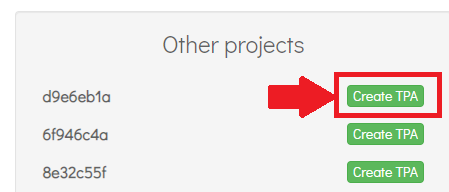
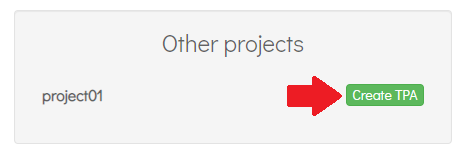
feat: deployment guide configuration

diff --git a/content/quickstart/auditing-agile.md b/content/quickstart/auditing-agile.md
@@ -40,12 +40,17 @@ curl https://github.com/governify/governify-project-bluejay-infrastructure/archi
      cd /governify-project-bluejay-infrastructure-1.12.2
 ``` 
 
-4. Open a terminal in the repository folder and execute setup.sh with the following parameters:
+4. (Optional) Add the default API keys. This will be used in case the projects API keys for the different tools aren't provided. Pivotal and GitHub keys are needed in the `Quick tour` section.
+```
+  nano configurations/collector-events/authKeys.json
+```
+
+5. Open a terminal in the repository folder and execute setup.sh with the following parameters:
 ```
  ./setup.sh <.YourDomain> <ServerIP> bluejay
 ```
 
- 5. (Optional) When the setup is done, create the SSL certificates for your deployment using [Lets Encript](https://letsencrypt.org/):
+6. (Optional) When the setup is done, create the SSL certificates for your deployment using [Lets Encript](https://letsencrypt.org/):
 ```
   ./init-letsencrypt.sh
 ```
@@ -56,28 +61,175 @@ Governify ecosystem with bluejay services should have been deployed in the syste
 The main interaface is accesible from ui.bluejay.*[YourDomain]*
 The default credentials for this interface is user: admin - password: admin
 
-In this interface you should be able to see a list of all the teams you have in your configuration. If you follow the deployment guide, you must see one example project.
+In this interface you should be able to see a list of all the teams you have in your configuration. By default, it comes with a predefined example project.
+
 ![Projects list interface of Governify](../images/auditing_agile/ui-interface.PNG)
 
-To start auditing one team, click the "Create TPA" button on the left of the team. This will create a standard and simple agreement for that team, and will start to audit it.
+To start auditing the example project simply click on the "Create TPA" button right next to the team's name (project01). This will create a simple predefined agreement for that team to start auditting it.
+
 ![Create TPA Button](../images/auditing_agile/create_tpa.png)
 
-Once the agreement is created, the project should appear in the Audited Projects column.
-Agreement terms can be viewed clicking the TPA button.
-![Create TPA Button](../images/auditing_agile/audited_buttons.png)
-Clicking the Dashboard button a new tab will be opened. If you did not logged before, username and password will be asked.
-Default username is governify-admin, and default password is governify-project.
+A new tab will open and, once the agreement is created, the TPA view of the project should appear. It contains information about it along the guarantees and metrics in use.
+
+![Create TPA Button](../images/auditing_agile/tpa_view.png)
+
+To calculate data for this project, the top-right blue button `Calculate Metrics` has to be clicked and a form will apear.
+
+![Create TPA Button](../images/auditing_agile/compute_metrics.png)
+
+The dates should be the same as the image in order to appear the correct information and the checkbox has to be accepted. By clicking the `Compute` button the system will start computing and, if everything goes well, after 5-20 seconds, the `TPA data is being generated for the period.` alert message will change to `Points creation ended.`
+
+Clicking the `Dashboard` green button at the top-right corner, a new tab will open. The default username and password are governify-admin and governify-project.
 Once logged, the dashboard for the project will be opened where all the audit data can be viewed.
+
 ![Dashboard of the example project](../images/auditing_agile/dashboard.png)
 
-Now is time to configure your projects in order to audit them.
+Now is time to configure your own projects in order to audit them.
 
-#### Configuration
-Bluejay should be able to access team data. To achieve this,the API Keys for each system that will be tracked should be provided.
+### Configuration
+Bluejay should be able to access team data. To achieve this, the API Keys for each team that will be tracked should be provided.
 
+There are 3 different files inside the cloned folder for configuring the system in order to start using it:
+ * /configurations/scope-manager/scopes.json
+   * The scope manager is the component serving the information about the projects. This file contains the different tools a team is using as well as information from the members and tokens to access that data.
+ * /configurations/scope-manager/authKeys.json
+   * As some information given by the ScopeManager might be sensitive, this file contains authorized tokens for other components to obtain the sensitive information.
+ * /configurations/collector-events/authKeys.json
+   * This file contains the key for accessing the ScopeManager as well as default keys for the different APIs from where the collector will consume data. These will be used if the tokens are not included in the scope.json for a given team. 
+#### authKeys.json files
+The two authKeys.json files are already preconfigured. In order to connect the collectors and the scope manager, there exista a key that must be the same in order to obtain sensitive information. When running the setup.sh script, these keys are randomly generated so they aren't needed to be changed. 
+``` json  
+/configurations/scope-manager/authKeys.json
+[
+    "Cs6bVCTGWLtXA8gr"
+]
+```
+``` json  
+/configurations/collector-events/authKeys.json
+{
+    "scopeManager": "Cs6bVCTGWLtXA8gr",
+    "github": "",
+    "pivotal": "",
+    "heroku": ""
+}
+```
+If you also want to fill the default keys for the EventCollector to use them in case no key is given in the scopes.json you can do it here. Also as an example, if multiple teams have a common user with access to all projects, you can fill the /configurations/collector-events/authKeys.json with his keys and thus, there is no need to enter any key in the scopes.json file.
 
+#### scope.json
+This file contains all the information from the different courses, teams and members to be identified along the different tools. It is organized with a hierarchy as the following:
+First it has a first array called development which contains the different classes. 
+Each class has a projects array containing all the projects (teams) inside that course. 
+Each project has a members array containing all the members inside that project.
+Each of these objects (course, project, member) follows the same structure:
+``` json
+{
+            "parentId": "parent01",
+            "identities": [],
+            "credentials": [],
+            "childs": []
+}
+```
+ * Identities is used to store the information that identifies that object in the different tools. 
+ * Credentials have all the tokens needed to obtain information from those tools. 
 
-#### Customization
+For example if the object is a project, identities will have information from the different tools and credentials concerning those tools. Their childs are the members so it will have 0 or more member objects inside the members array. 
+
+This is an example scopes.json file:
+
+``` json
+/configurations/scope-manager/scopes.json
+{
+    "development": [
+        {
+            "classId": "class01",
+            "identities": [],
+            "credentials": [],
+            "projects": [
+                {
+                    "projectId": "project01",
+                    "identities": [
+                        {
+                            "source": "github",
+                            "repository": "repo01",
+                            "repoOwner": "owner01"
+                        },
+                        {
+                            "source": "pivotal",
+                            "projectId": 1
+                        },
+                        {
+                            "source": "heroku",
+                            "projectId": "id1"
+                        },
+                        {
+                            "source": "travis"
+                        },
+                        {
+                            "source": "codeclimate"
+                        }
+                    ],
+                    "credentials": [
+                        {
+                          "source": "github",
+                          "apiKey": "githubToken"
+                        },
+                        {
+                          "source": "pivotal",
+                          "apiKey": "pivotalToken"
+                        },
+                        {
+                          "source": "heroku",
+                          "apiKey": "herokuToken"
+                        },
+                        {
+                          "source": "travis",
+                          "apiKey": "travisToken"
+                        },
+                        {
+                          "source": "codeclimate",
+                          "apiKey": "codeclimateToken"
+                        }
+                    ],
+                    "members": [
+                        {
+                            "memberId": 1,
+                            "identities": [
+                                {
+                                    "source": "github",
+                                    "username": "githubName1"
+                                },
+                                {
+                                    "source": "pivotal",
+                                    "username": "pivotalName1"
+                                }
+                            ],
+                            "credentials": []
+                        },
+                        {
+                            "memberId": 2,
+                            "identities": [
+                                {
+                                    "source": "github",
+                                    "username": "githubName2"
+                                },
+                                {
+                                    "source": "pivotal",
+                                    "username": "pivotalName2"
+                                }
+                            ],
+                            "credentials": []
+                        }
+                    ]
+                }
+            ]
+        }
+    ]
+}
+```
+
+It needs to be filled up with the different teams and members for the system to start auditing them. Also any needed credential for each tool.
+
+### Customization
 Bluejay is customizable in every aspect. You can create new agreements, new dashboard and even new interfaces. Check the following sections:
 - [Agreement Modeling customization](/customization/agreement_modeling)
 - [User Interfaces customization](/customization/user_interfaces)
